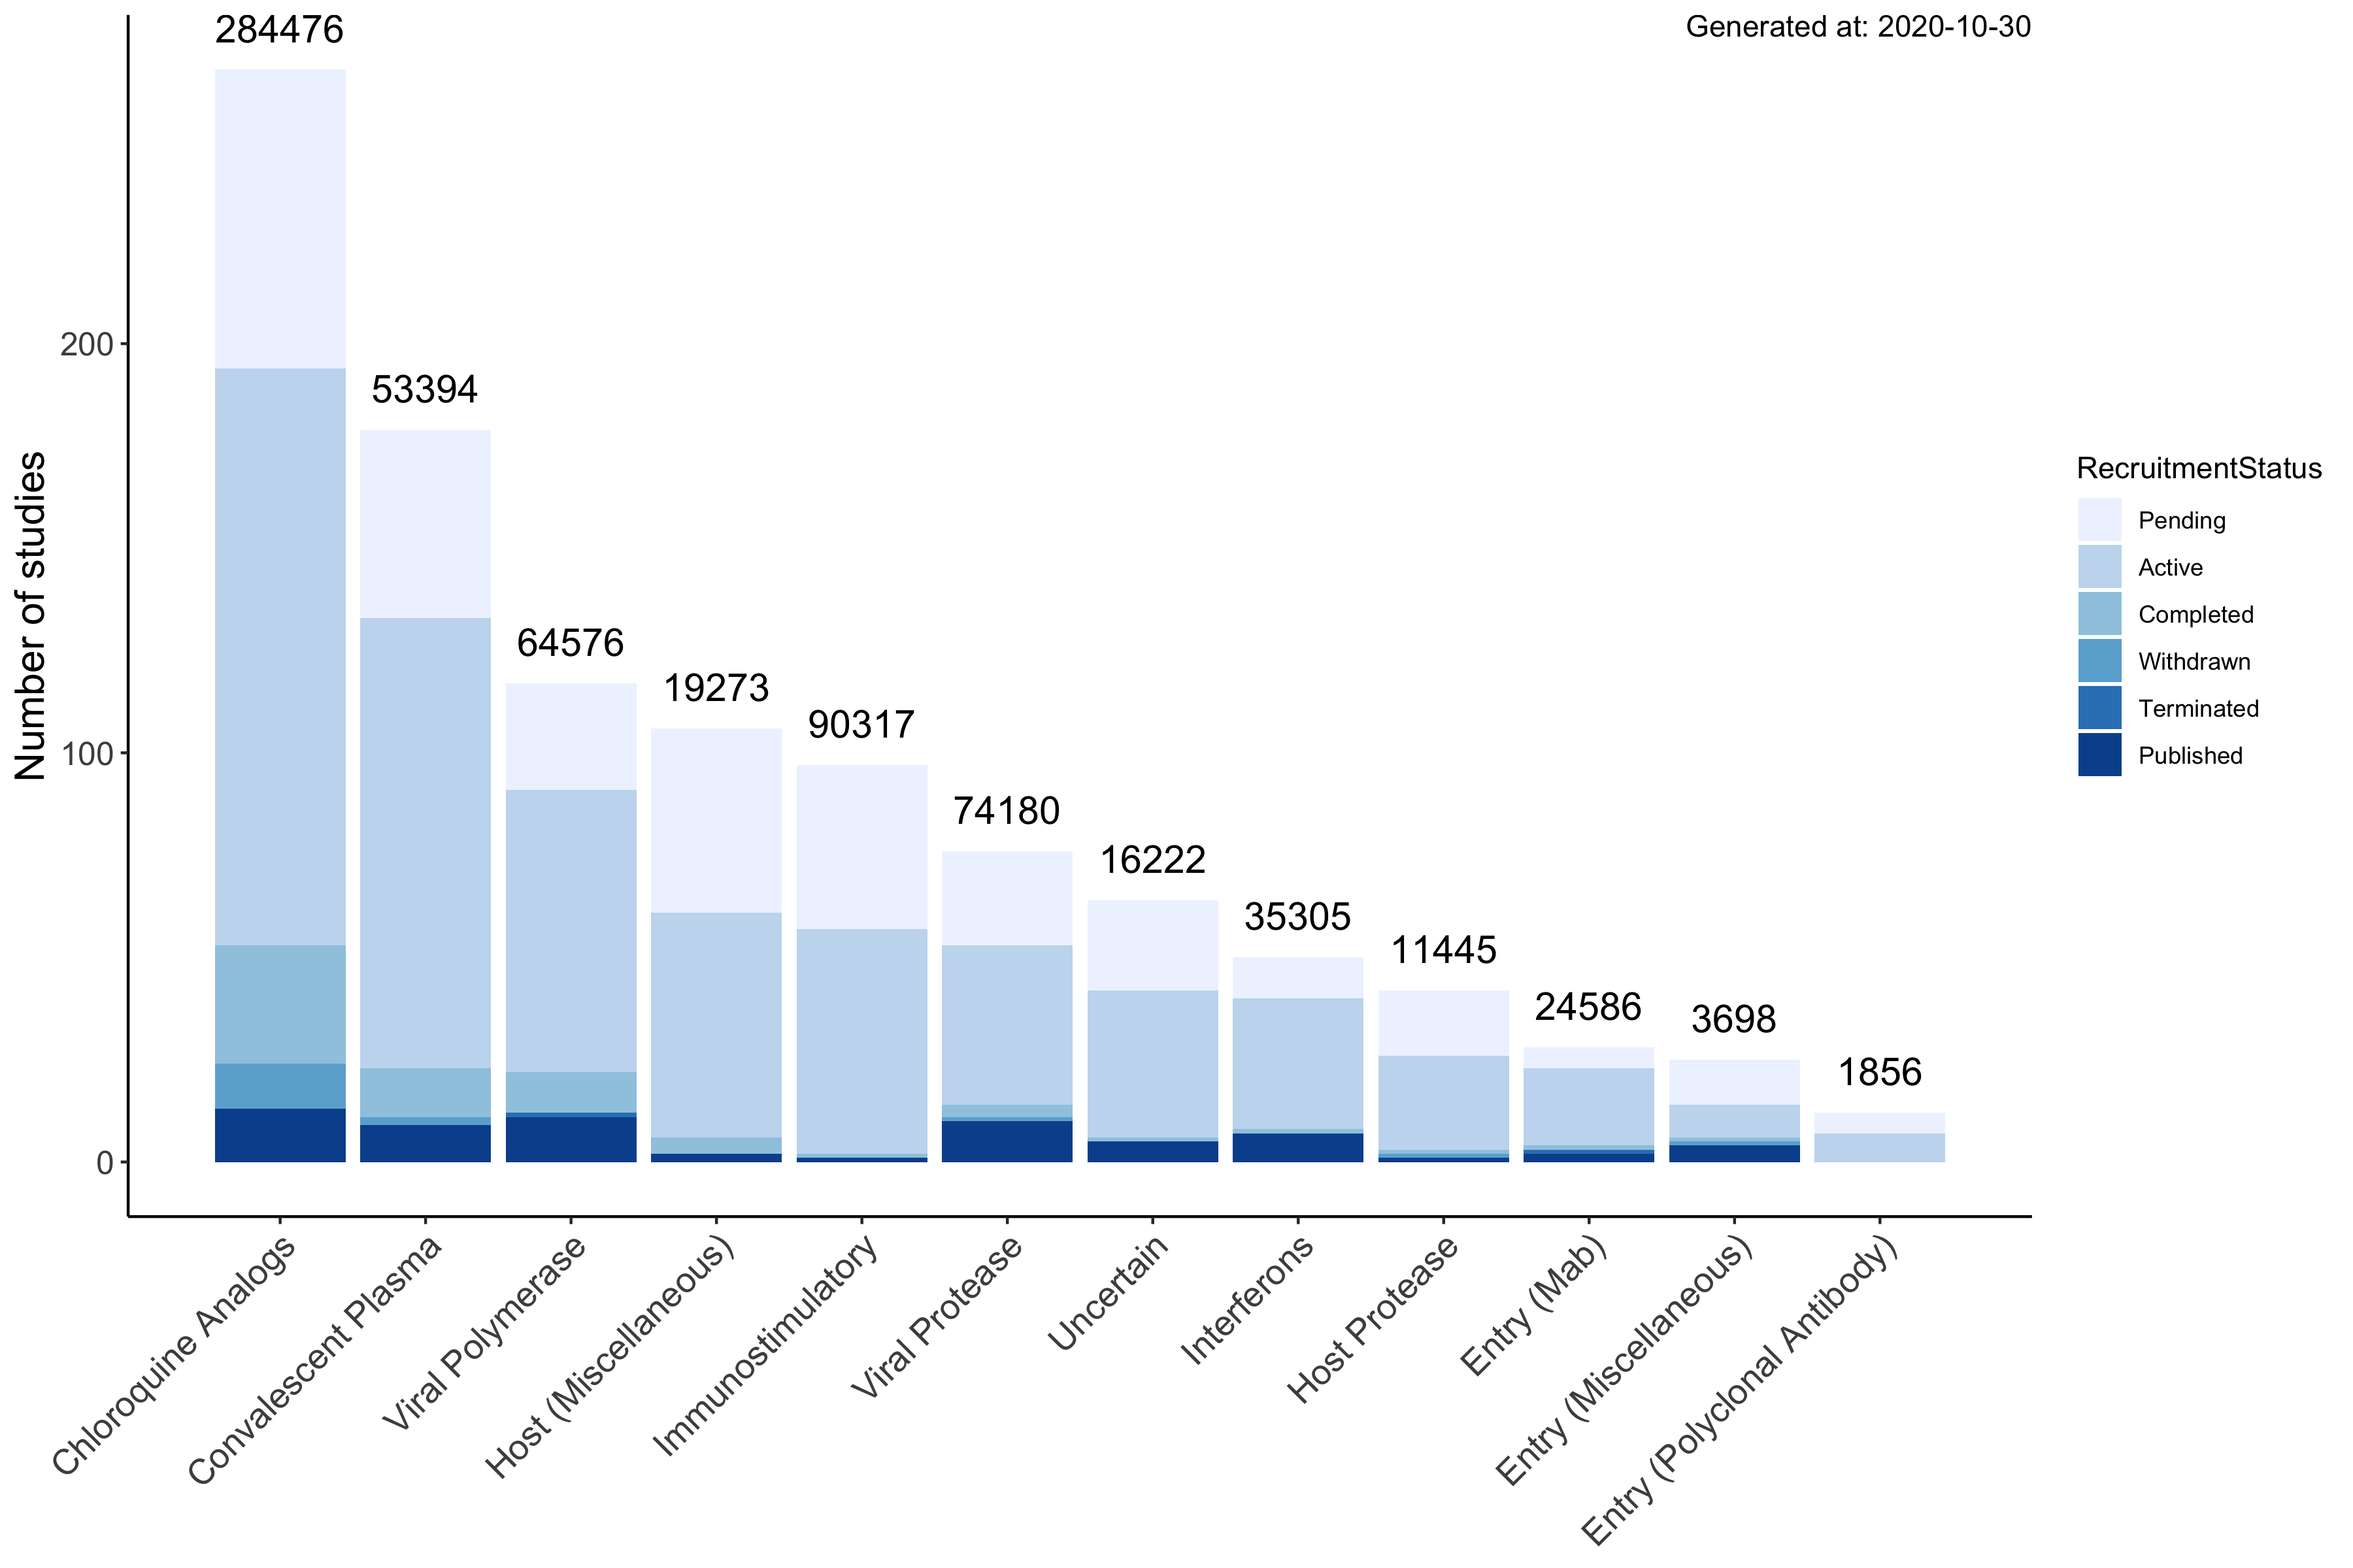
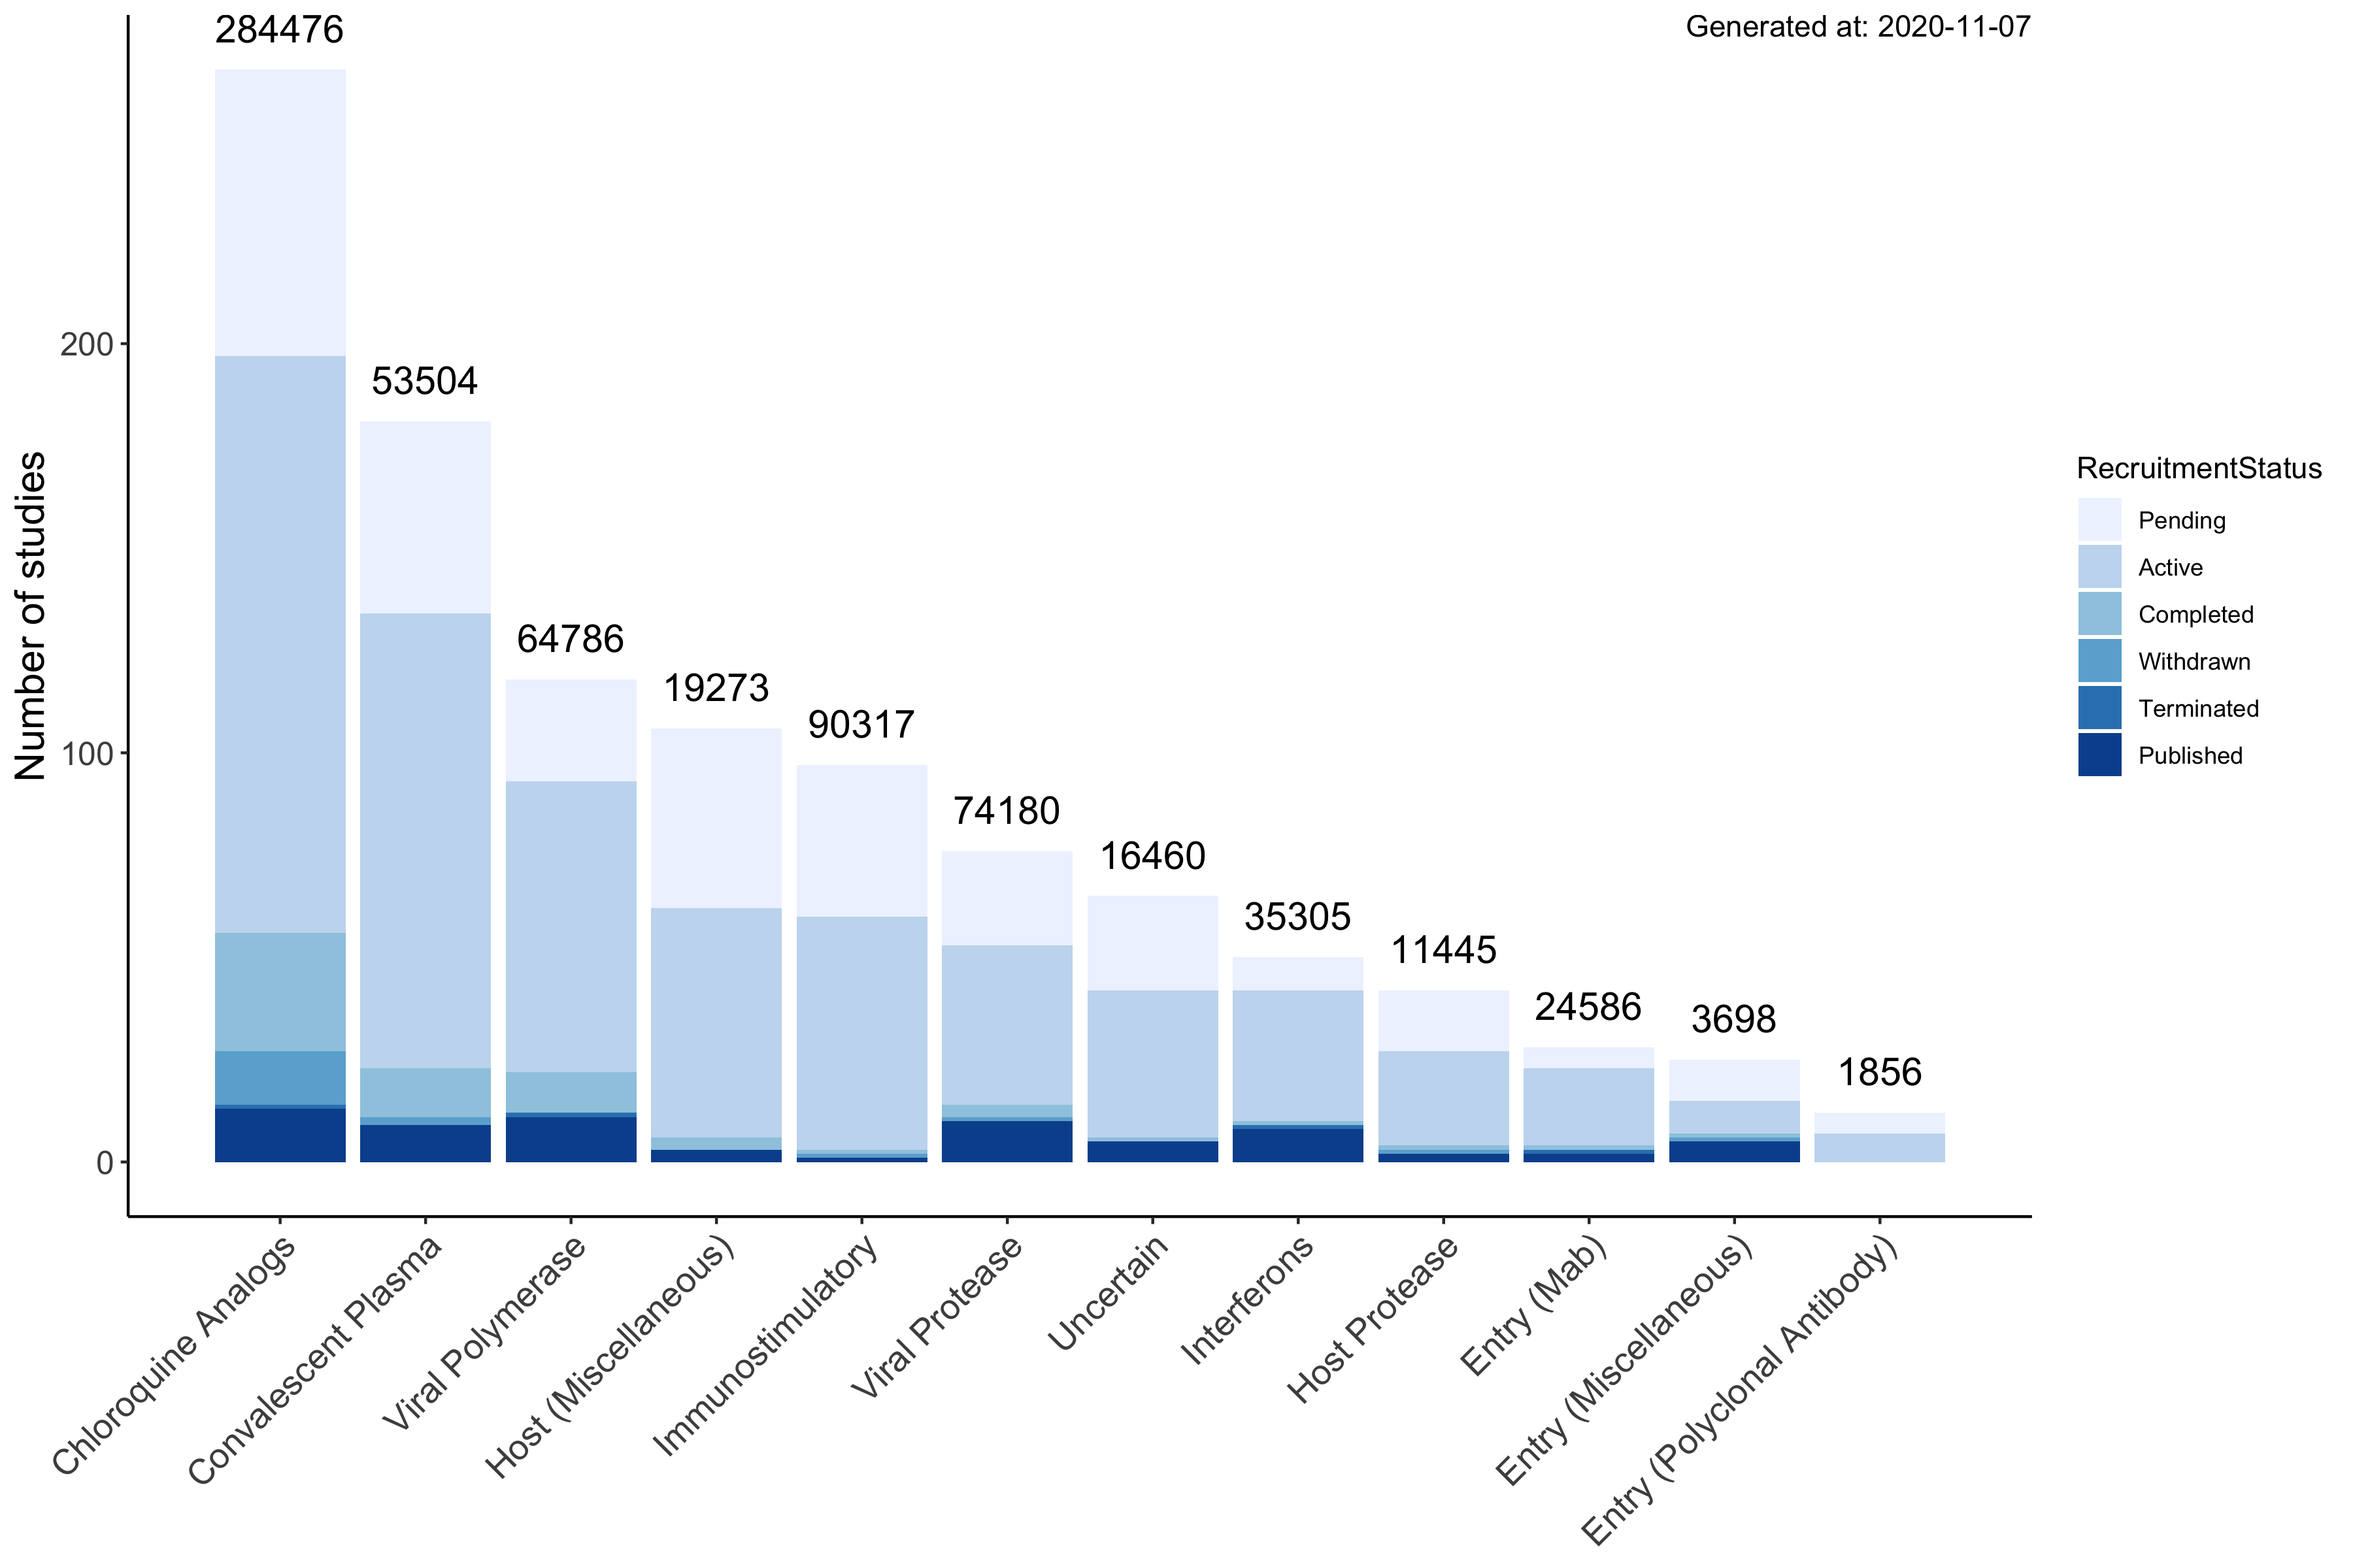
update updates

diff --git a/resources/updates-homepage.md b/resources/updates-homepage.md
@@ -22,6 +22,15 @@ Instruction:
 7. Please do not delete this instruction.
 
 -->
+### Database Entries (Nov 07)
+Chi X, Liu X, et int., and Yang W. [“Humanized single domain antibodies neutralize SARS-CoV-2 by targeting the spike receptor binding domain.”](/search/?article=Chi20b) _Nature Communications_, 2020. [doi.org/10.1038/s41467-020-18387-8](https://doi.org/10.1038/s41467-020-18387-8). \[[PubMed32913273](https://www.ncbi.nlm.nih.gov/pubmed/32913273/)\] \[[PMC7483421](https://www.ncbi.nlm.nih.gov/pmc/articles/PMC7483421/)\]
+### Database Entries (Nov 07)
+de Vries RD, Schmitz KS, et int., and Porotto M. [“Intranasal fusion inhibitory lipopeptide prevents direct contact SARS-CoV-2 transmission in ferrets.”](/search/?article=deVries20) _bioRxiv_, 2020. [doi.org/10.1101/2020.11.04.361154](https://doi.org/10.1101/2020.11.04.361154).
+### [Preprints => Peer-Reviewed Publications (Nov 7)](/page/updates/#preprints.peer-reviewed.publications)
+2 published preprints were added.
+### [Clinical Trials (Nov 05)](/page/updates/#clinical.trials)
+[4 clinical trials from ClinicalTrials.gov and WHO ICTRP were added to the registry of Ongoing and Planned Clinical Trials of Antiviral Compounds.](/clinical-trials/?fromDate=2020-11-05)
+
 ### Database Entries (Nov 05)
 Bojkova D, Bechtel M, et int., and Cinatl J. [“Aprotinin Inhibits SARS-CoV-2 Replication.”](/search/?article=Bojkova20c) _Cells_, 2020. [doi.org/10.3390/cells9112377](https://doi.org/10.3390/cells9112377). \[[PubMed33143316](https://www.ncbi.nlm.nih.gov/pubmed/33143316/)\]
 ### Database Entries (Nov 05)
@@ -128,46 +137,3 @@ Monoclonal Antibodies for the Prevention and Treatment of COVID 19. [video](http
 ### [Press Release (Oct 07)](/page/updates/#press.release)
 - [Lilly SARS-CoV-2 Neutralizing Antibody Slides Oct7](https://s3-us-west-2.amazonaws.com/cms.hivdb.org/chiro-prod/downloads/press-release/Lilly202010071.pdf)
 - [Lilly update on SARS-CoV-2 neutralizing antibody programs Oct7](https://s3-us-west-2.amazonaws.com/cms.hivdb.org/chiro-prod/downloads/press-release/Lilly202010072.pdf)
-
-### Database Entries (Oct 05)
-Ansarin K, Tolouian R, et int., and Chapman KR. [“Effect of bromhexine on clinical outcomes and mortality in COVID-19 patients: A randomized clinical trial.”](/search/?article=Ansarin20) _BioImpacts_, 2020. [doi.org/10.34172/bi.2020.27](https://doi.org/10.34172/bi.2020.27). \[[PubMed32983936](https://www.ncbi.nlm.nih.gov/pubmed/32983936/)\] \[[PMC7502909]\](https://www.ncbi.nlm.nih.gov/pmc/articles/PMC7502909/)
-### Database Entries (Oct 05)
-Wahl A, Gralinski L, et int., and Garcia JV. [“Acute SARS-CoV-2 Infection is Highly Cytopathic, Elicits a Robust Innate Immune Response and is Efficiently Prevented by EIDD-2801.”](/search/?article=Wahl20) _Research square_, [2020. doi.org/10.21203/rs.3.rs-80404/v1](https://doi.org/10.21203/rs.3.rs-80404/v1). \[[PubMed32995766](https://www.ncbi.nlm.nih.gov/pubmed/32995766/)\] \[[PMC7523135](https://www.ncbi.nlm.nih.gov/pmc/articles/PMC7523135/)\]
-### Database Entries (Oct 03)
-Jones BE, Brown-Augsburger PL, et int., and Falconer E. [“LY-CoV555, a rapidly isolated potent neutralizing antibody, provides protection in a non-human primate model of SARS-CoV-2 infection.”](/search/?article=Jones20) _bioRxiv_, 2020. [doi.org/10.1101/2020.09.30.318972](https://doi.org/10.1101/2020.09.30.318972).
-### Database Entries (Oct 03)
-Sagar S, Rathinavel AK, et int., and Radhakrishnan P. [“Bromelain Inhibits SARS-CoV-2 Infection in VeroE6 Cells.”](/search/?article=Sagar20) _bioRxiv_, 2020. [doi.org/10.1101/2020.09.16.297366](https://doi.org/10.1101/2020.09.16.297366). \[[PubMed32995771](https://www.ncbi.nlm.nih.gov/pubmed/32995771/)\] \[[PMC7523097](https://www.ncbi.nlm.nih.gov/pmc/articles/PMC7523097/)\]
-### Database Entries (Oct 03)
-Watson A, Ferreira L, et int., and Stroud R. [“Peptide Antidotes to SARS-CoV-2 (COVID-19).”](/search/?article=Watson20) _bioRxiv_, 2020. [doi.org/10.1101/2020.08.06.238915](https://doi.org/10.1101/2020.08.06.238915).
-
-### [Press Release (Oct 02)](/page/updates/#press.release)
-
-[Synairgen plc, Interim results for the six months ended 30 June 2020](https://s3-us-west-2.amazonaws.com/cms.hivdb.org/chiro-prod/downloads/press-release/Synairgen20200930.pdf)
-
-### [Press Release (Oct 02)](/page/updates/#press.release)
-
-[Lilly announces proof of concept data for neutralizing antibody LY-CoV555 in the COVID-19outpatient setting](https://s3-us-west-2.amazonaws.com/cms.hivdb.org/chiro-prod/downloads/press-release/Lilly20200930.pdf)
-
-### [Press Release (Oct 02)](/page/updates/#press.release)
-
-[Regeneron's REGN-COV2 Antibody Cocktail Reduced Viral Levels and Improved Symptoms inNon-Hospitalized COVID-19 Patients](https://s3-us-west-2.amazonaws.com/cms.hivdb.org/chiro-prod/downloads/press-release/Regeneron20200930.pdf)
-
-### [Clinical Trials (Oct 01)](/page/updates/#clinical.trials)
-[9 clinical trials from ClinicalTrials.gov and WHO ICTRP were added to the registry of Ongoing and Planned Clinical Trials of Antiviral Compounds.](/clinical-trials/?fromDate=2020-10-01)
-
-### Database entries (Oct 01)
-Proud PC, Tsitoura D, et int., and Carroll MW. [“Prophylactic intranasal administration of a TLR2 agonist reduces upper respiratory tract viral shedding in a SARS-CoV-2 challenge ferret model.”](/search/?article=Proud20) _bioRxiv_, 2020. [doi.org/10.1101/2020.09.25.309914](https://doi.org/10.1101/2020.09.25.309914).
-### Database entries (Oct 01)
-Son J, Huang S, et int., and Ding S. [“Nitazoxanide and JIB-04 have broad-spectrum antiviral activity and inhibit SARS-CoV-2 replication in cell culture and coronavirus pathogenesis in a pig model.”](/search/?article=Son20) _bioRxiv_, 2020. [doi.org/10.1101/2020.09.24.312165](https://doi.org/10.1101/2020.09.24.312165).
-### Database entries (Oct 01)
-Fagre AC, Manhard J, et int., and Schountz T. [“A potent SARS-CoV-2 neutralizing human monoclonal antibody that reduces viral burden and disease severity in Syrian hamsters.”](/search/?article=Fagre20) _bioRxiv_, 2020. [doi.org/10.1101/2020.09.25.313601](https://doi.org/10.1101/2020.09.25.313601).
-### Database entries (Oct 01)
-Lin C, Li Y, et int., and Chen J. [“Ceftazidime Is a Potential Drug to Inhibit SARS-CoV-2 Infection In Vitro by Blocking Spike Protein-ACE2 Interaction.”](/search/?article=Lin20) _bioRxiv_, 2020. [doi.org/10.1101/2020.09.14.295956](https://doi.org/10.1101/2020.09.14.295956).
-### Database entries (Oct 01)
-Xiao T, Lu J, et int., and Chen B. [“A trimeric human angiotensin-converting enzyme 2 as an anti-SARS-CoV-2 agent in vitro.”](/search/?article=Xiao20b) _bioRxiv_, 2020. [doi.org/10.1101/2020.09.18.301952](https://doi.org/10.1101/2020.09.18.301952). \[[PubMed32995768](https://www.ncbi.nlm.nih.gov/pubmed/32995768/)\] \[[PMC7523094](https://www.ncbi.nlm.nih.gov/pmc/articles/PMC7523094/)\]
-### Database entries (Oct 01)
-Zhang L, Cao L, et int., and Zhu F. [“A proof of concept for neutralizing antibody-guided vaccine design against SARS-CoV-2.”](/search/?article=Zhang20f) _bioRxiv_, 2020. [doi.org/10.1101/2020.09.23.309294](https://doi.org/10.1101/2020.09.23.309294).
-### Database entries (Sep 29)
-Brunaugh AD, Seo H, et int., and Smyth HD. [“Broad-Spectrum, Patient-Adaptable Inhaled Niclosamide-Lysozyme Particles are Efficacious Against Coronaviruses in Lethal Murine Infection Models.”](/search/?article=Brunaugh20) _bioRxiv_, 2020. [doi.org/10.1101/2020.09.24.310490](https://doi.org/10.1101/2020.09.24.310490).
-### Database entries (Sep 29)
-Curreli F, Victor SMB, et int., and Debnath AK. [“Stapled peptides based on Human Angiotensin-Converting Enzyme 2 (ACE2) potently inhibit SARS-CoV-2 infection in vitro.”](/search/?article=Curreli20) _bioRxiv_, 2020. [doi.org/10.1101/2020.08.25.266437](https://doi.org/10.1101/2020.08.25.266437).

diff --git a/resources/updates.md b/resources/updates.md
@@ -72,6 +72,9 @@ Instruction:
 
 ## Database Entries
 ### November 2020
+- November 07
+    - Chi X, Liu X, et int., and Yang W. [“Humanized single domain antibodies neutralize SARS-CoV-2 by targeting the spike receptor binding domain.”](/search/?article=Chi20b) _Nature Communications_, 2020. [doi.org/10.1038/s41467-020-18387-8](https://doi.org/10.1038/s41467-020-18387-8). \[[PubMed32913273](https://www.ncbi.nlm.nih.gov/pubmed/32913273/)\] \[[PMC7483421](https://www.ncbi.nlm.nih.gov/pmc/articles/PMC7483421/)\]
+    - de Vries RD, Schmitz KS, et int., and Porotto M. [“Intranasal fusion inhibitory lipopeptide prevents direct contact SARS-CoV-2 transmission in ferrets.”](/search/?article=deVries20) _bioRxiv_, 2020. [doi.org/10.1101/2020.11.04.361154](https://doi.org/10.1101/2020.11.04.361154).
 - November 05
     - Bojkova D, Bechtel M, et int., and Cinatl J. [“Aprotinin Inhibits SARS-CoV-2 Replication.”](/search/?article=Bojkova20c) _Cells_, 2020. [doi.org/10.3390/cells9112377](https://doi.org/10.3390/cells9112377). \[[PubMed33143316](https://www.ncbi.nlm.nih.gov/pubmed/33143316/)\]
     - Li Y, Cao L, et int., and Zhang X. [“Remdesivir Metabolite GS-441524 Effectively Inhibits SARS-CoV-2 Infection in Mice Models.”](/search/?article=Li20g) _bioRxiv_, 2020. [doi.org/10.1101/2020.10.26.353300](https://doi.org/10.1101/2020.10.26.353300).
@@ -736,6 +739,9 @@ Instruction:
     - de Wit E, Feldmann F, et int., and Feldmann H. [“Prophylactic and therapeutic remdesivir (GS-5734) treatment in the rhesus macaque model of MERS-CoV infection.”](/search/?article=deWit20) _Proceedings of the National Academy of Sciences_, 2020. [doi.org/10.1073/pnas.1922083117](https://doi.org/10.1073/pnas.1922083117). \[[PubMed32054787](https://www.ncbi.nlm.nih.gov/pubmed/32054787/)\] \[[PMC7104368](https://www.ncbi.nlm.nih.gov/pmc/articles/PMC7104368/)\]
 ## Preprints => Peer-Reviewed Publications
 ### November 2020
+- November 07
+    - Custódio TF, Das H, et int., and Löw C. [“Selection, biophysical and structural analysis of synthetic nanobodies that effectively neutralize SARS-CoV-2.”](/search/?article=Custodio20) _Nature Communications_, 2020. [doi.org/10.1038/s41467-020-19204-y](https://doi.org/10.1038/s41467-020-19204-y). \[[PubMed33149112](https://www.ncbi.nlm.nih.gov/pubmed/33149112/)\]
+    - Schoof M, Faust B, et int., and Manglik A. [“An ultrapotent synthetic nanobody neutralizes SARS-CoV-2 by stabilizing inactive Spike.”](/search/?article=Schoof20) _Science_, 2020. [doi.org/10.1126/science.abe3255](https://doi.org/10.1126/science.abe3255). \[[PubMed33154106](https://www.ncbi.nlm.nih.gov/pubmed/33154106/)\]
 - November 4
     - Li W, Chen C, et int., and Dimitrov DS. [“Rapid identification of a human antibody with high prophylactic and therapeutic efficacy in three animal models of SARS-CoV-2 infection.”](/search/?article=Li20b) _Proceedings of the National Academy of Sciences_, 2020. [doi.org/10.1073/pnas.2010197117](https://doi.org/10.1073/pnas.2010197117). \[[PubMed33139569](https://www.ncbi.nlm.nih.gov/pubmed/33139569/)\]
 - November 3
@@ -825,6 +831,13 @@ Instruction:
 <!-- start of clinical trials -->
 
 ## Clinical Trials
+### November 2020
+- November 05
+    - [4 clinical trials were added.](/clinical-trials/?fromDate=2020-11-05)
+    - NCT04610138
+    - NCT04613271
+    - NCT04614012
+    - NCT04616001
 ### October 2020
 - October 29
     - [11 clinical trials were added.](/clinical-trials/?fromDate=2020-10-29)
